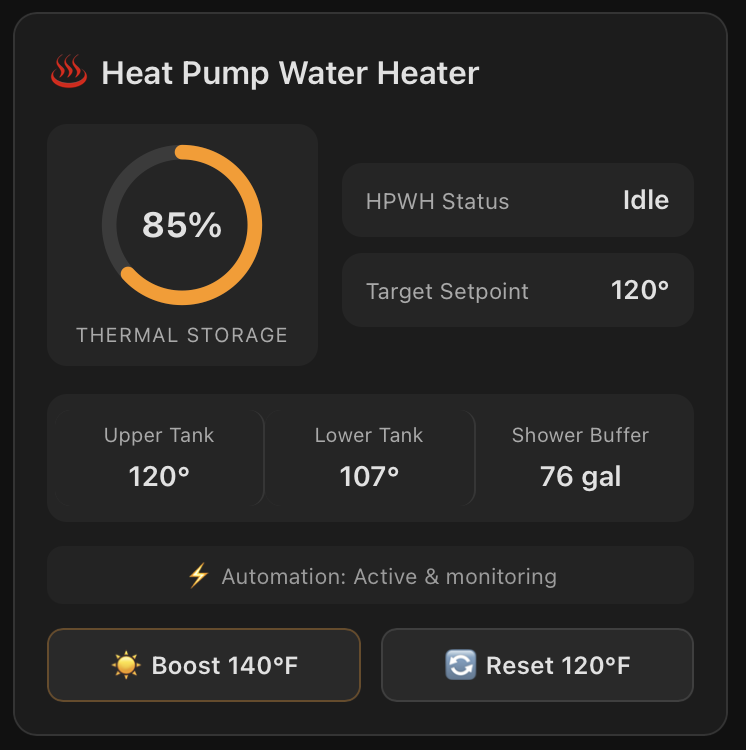
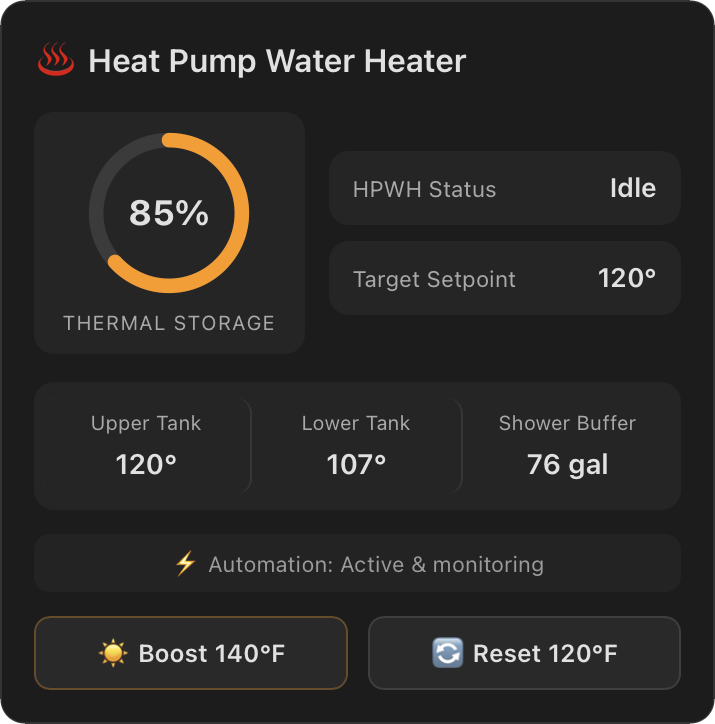
Add shower minutes vs gallons display toggle and update card preview

diff --git a/hpwh/hpwh-card.js b/hpwh/hpwh-card.js
@@ -18,6 +18,7 @@ class HpwhCard extends HTMLElement {
     }
     this._config = {
       title: "♨ Heat Pump Water Heater",
+      shower_display: "minutes",
       ...config
     };
     if (this._initialized) {
@@ -63,6 +64,17 @@ class HpwhCard extends HTMLElement {
           selector: { entity: { domain: "automation" } }
         },
         {
+          name: "shower_display",
+          selector: {
+            select: {
+              options: [
+                { value: "minutes", label: "Shower Minutes (e.g. 38 min)" },
+                { value: "gallons", label: "Gallons (e.g. 77 gal)" }
+              ]
+            }
+          }
+        },
+        {
           name: "title",
           selector: { text: {} }
         }
@@ -73,6 +85,7 @@ class HpwhCard extends HTMLElement {
   static getStubConfig() {
     return {
       title: "♨ Heat Pump Water Heater",
+      shower_display: "minutes",
       entity: "climate.water_heater",
       power_sensor: "sensor.water_heater_power",
       soc_sensor: "sensor.water_heater_state_of_charge",
@@ -365,6 +378,7 @@ class HpwhCard extends HTMLElement {
       upperVal: this.shadowRoot.getElementById("upper-val"),
       lowerVal: this.shadowRoot.getElementById("lower-val"),
       showerVal: this.shadowRoot.getElementById("shower-val"),
+      showerItem: this.shadowRoot.getElementById("click-shower"),
       autoText: this.shadowRoot.getElementById("auto-text")
     };
 
@@ -502,11 +516,39 @@ class HpwhCard extends HTMLElement {
     this._elements.upperVal.textContent = upperEntity ? `${Math.round(parseFloat(upperEntity.state))}°` : "--";
     this._elements.lowerVal.textContent = lowerEntity ? `${Math.round(parseFloat(lowerEntity.state))}°` : "--";
 
-    let showerGal = "--";
-    if (socEntity && socEntity.attributes && socEntity.attributes.usable_shower_gallons_est !== undefined) {
-      showerGal = `${Math.round(socEntity.attributes.usable_shower_gallons_est)} gal`;
+    // Shower Buffer (Gallons or Minutes)
+    const showMinutes = this._config.shower_display !== "gallons";
+    let showerValStr = "--";
+    let showerTooltip = "Click to view Shower Buffer details";
+
+    if (socEntity && socEntity.attributes) {
+      let gal = socEntity.attributes.usable_shower_gallons_est;
+      let min = socEntity.attributes.usable_shower_minutes_est;
+
+      // Graceful fallback if only one attribute is present
+      if (min === undefined && gal !== undefined) {
+        min = Math.round(gal / 2.0);
+      } else if (gal === undefined && min !== undefined) {
+        gal = Math.round(min * 2.0);
+      }
+
+      if (showMinutes) {
+        showerValStr = min !== undefined ? `${Math.round(min)} min` : "--";
+        if (gal !== undefined) {
+          showerTooltip = `Shower Buffer: ~${Math.round(min)} min (approx. ${Math.round(gal)} gal @ 2.0 GPM)`;
+        }
+      } else {
+        showerValStr = gal !== undefined ? `${Math.round(gal)} gal` : "--";
+        if (min !== undefined) {
+          showerTooltip = `Shower Buffer: ~${Math.round(gal)} gal (approx. ${Math.round(min)} min @ 2.0 GPM)`;
+        }
+      }
     }
-    this._elements.showerVal.textContent = showerGal;
+
+    this._elements.showerVal.textContent = showerValStr;
+    if (this._elements.showerItem) {
+      this._elements.showerItem.title = showerTooltip;
+    }
   }
 }
 
